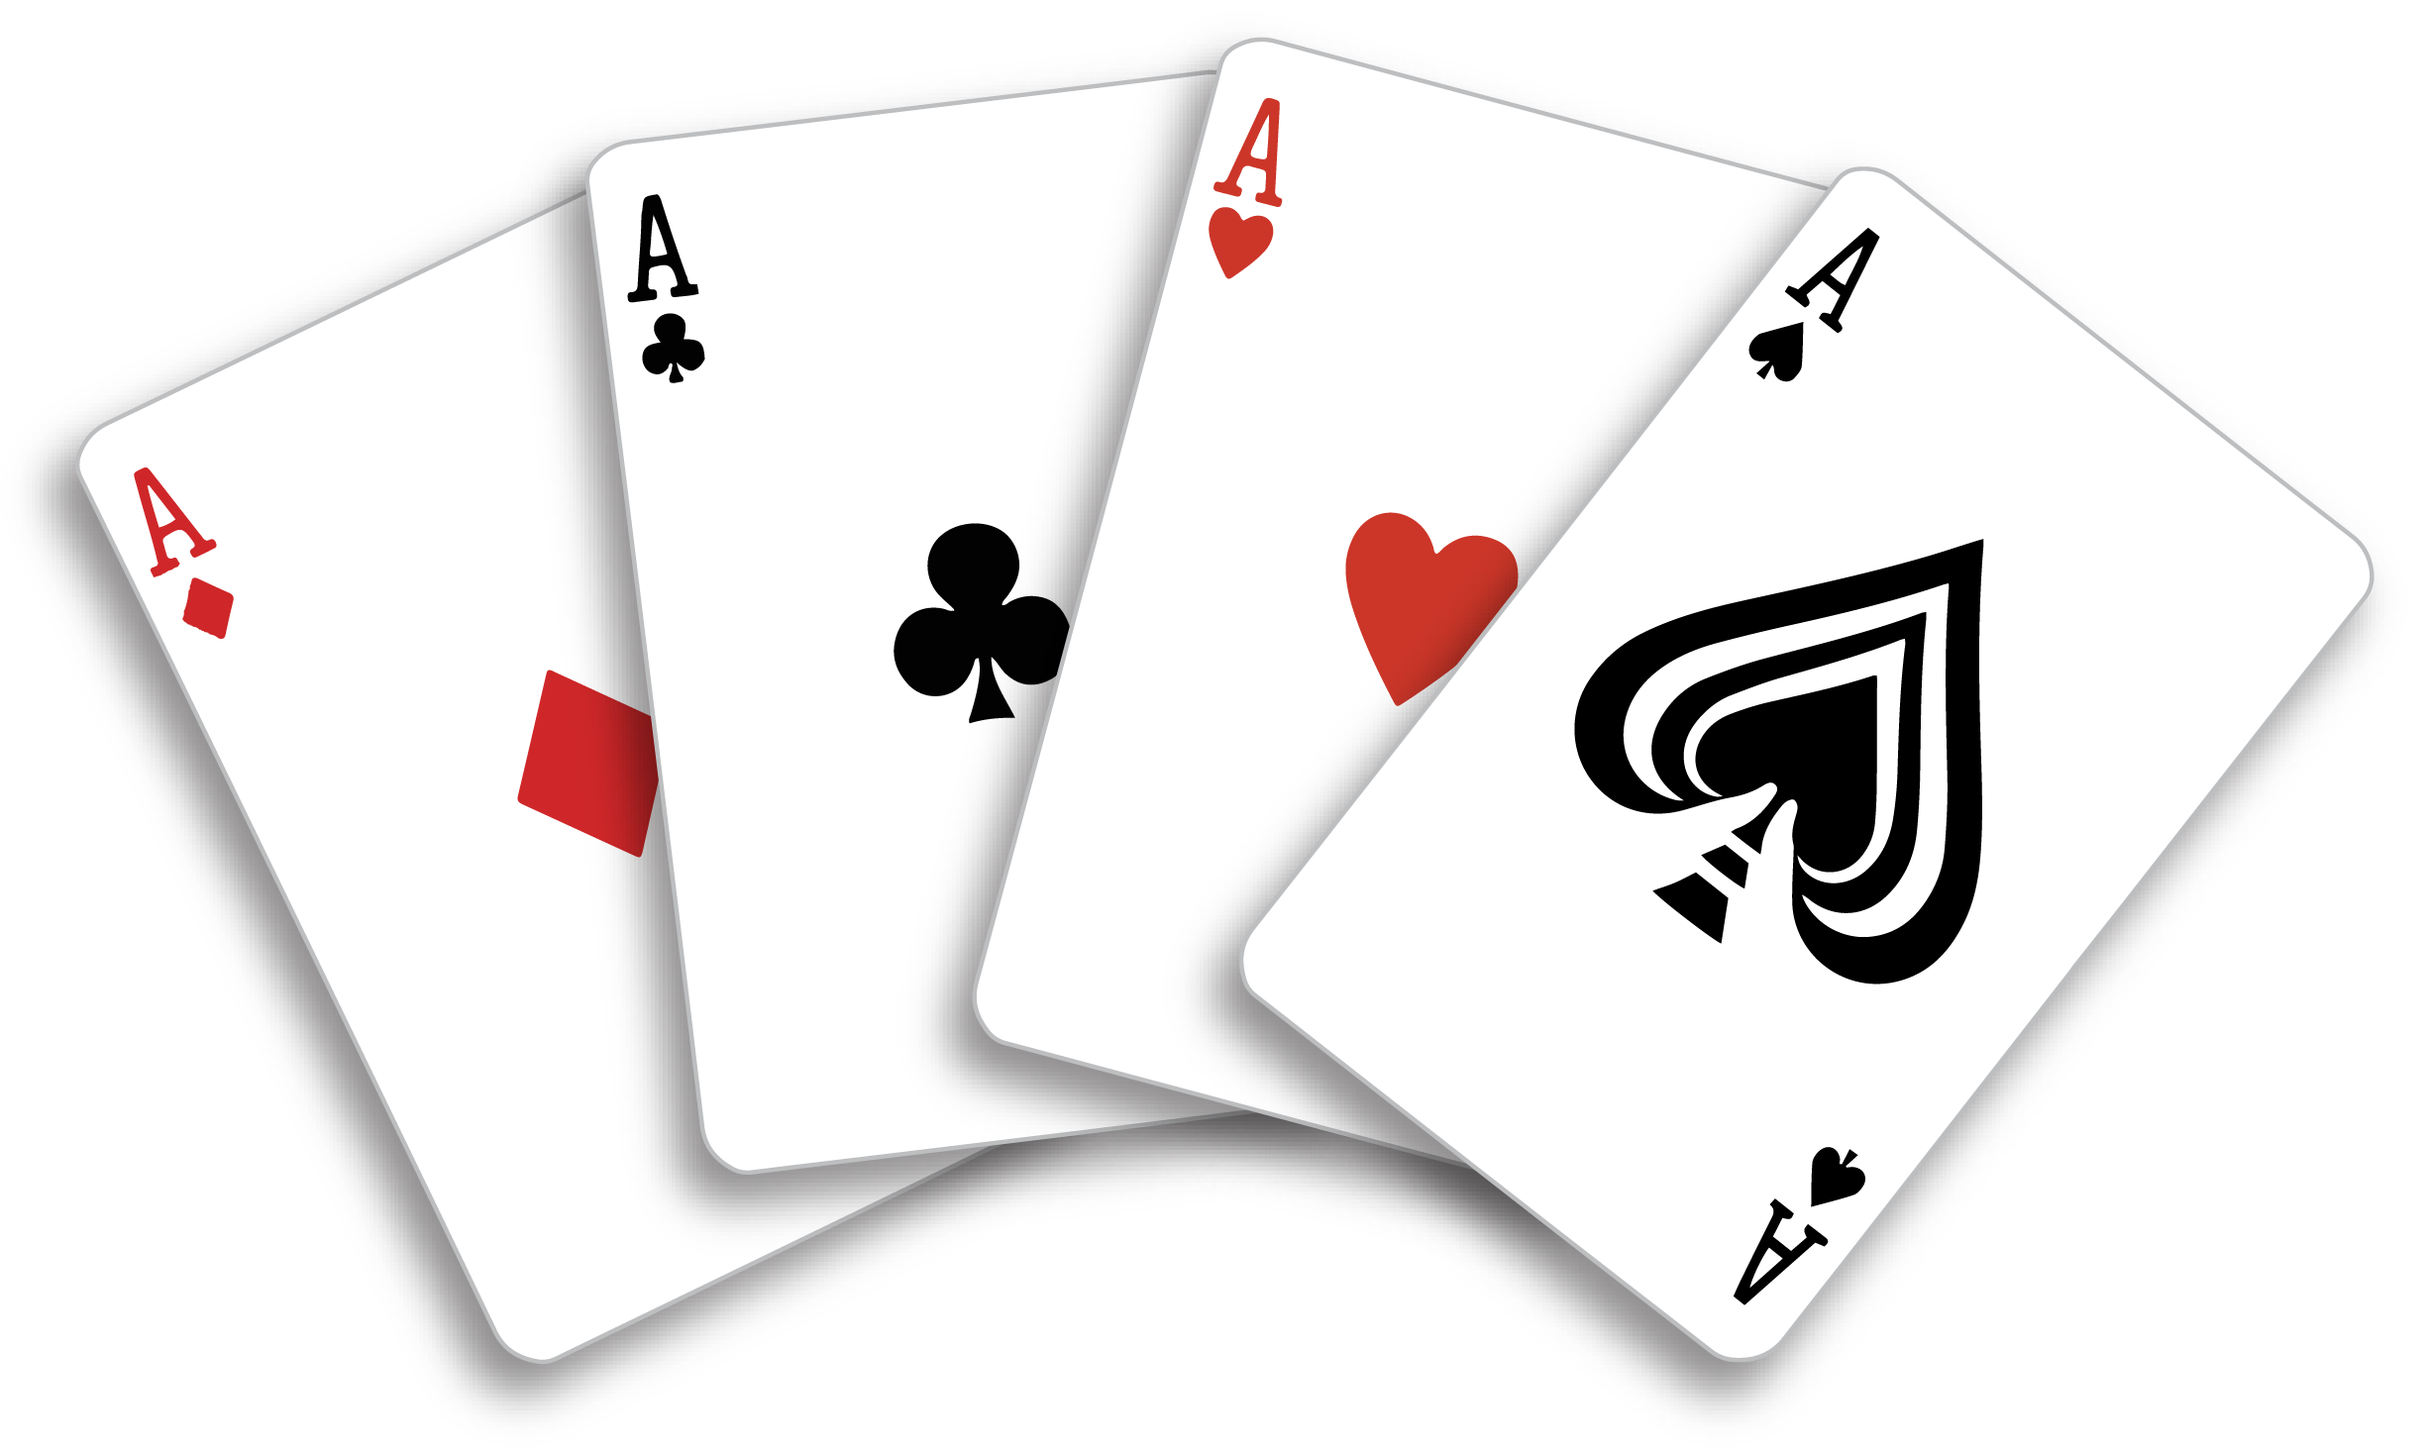
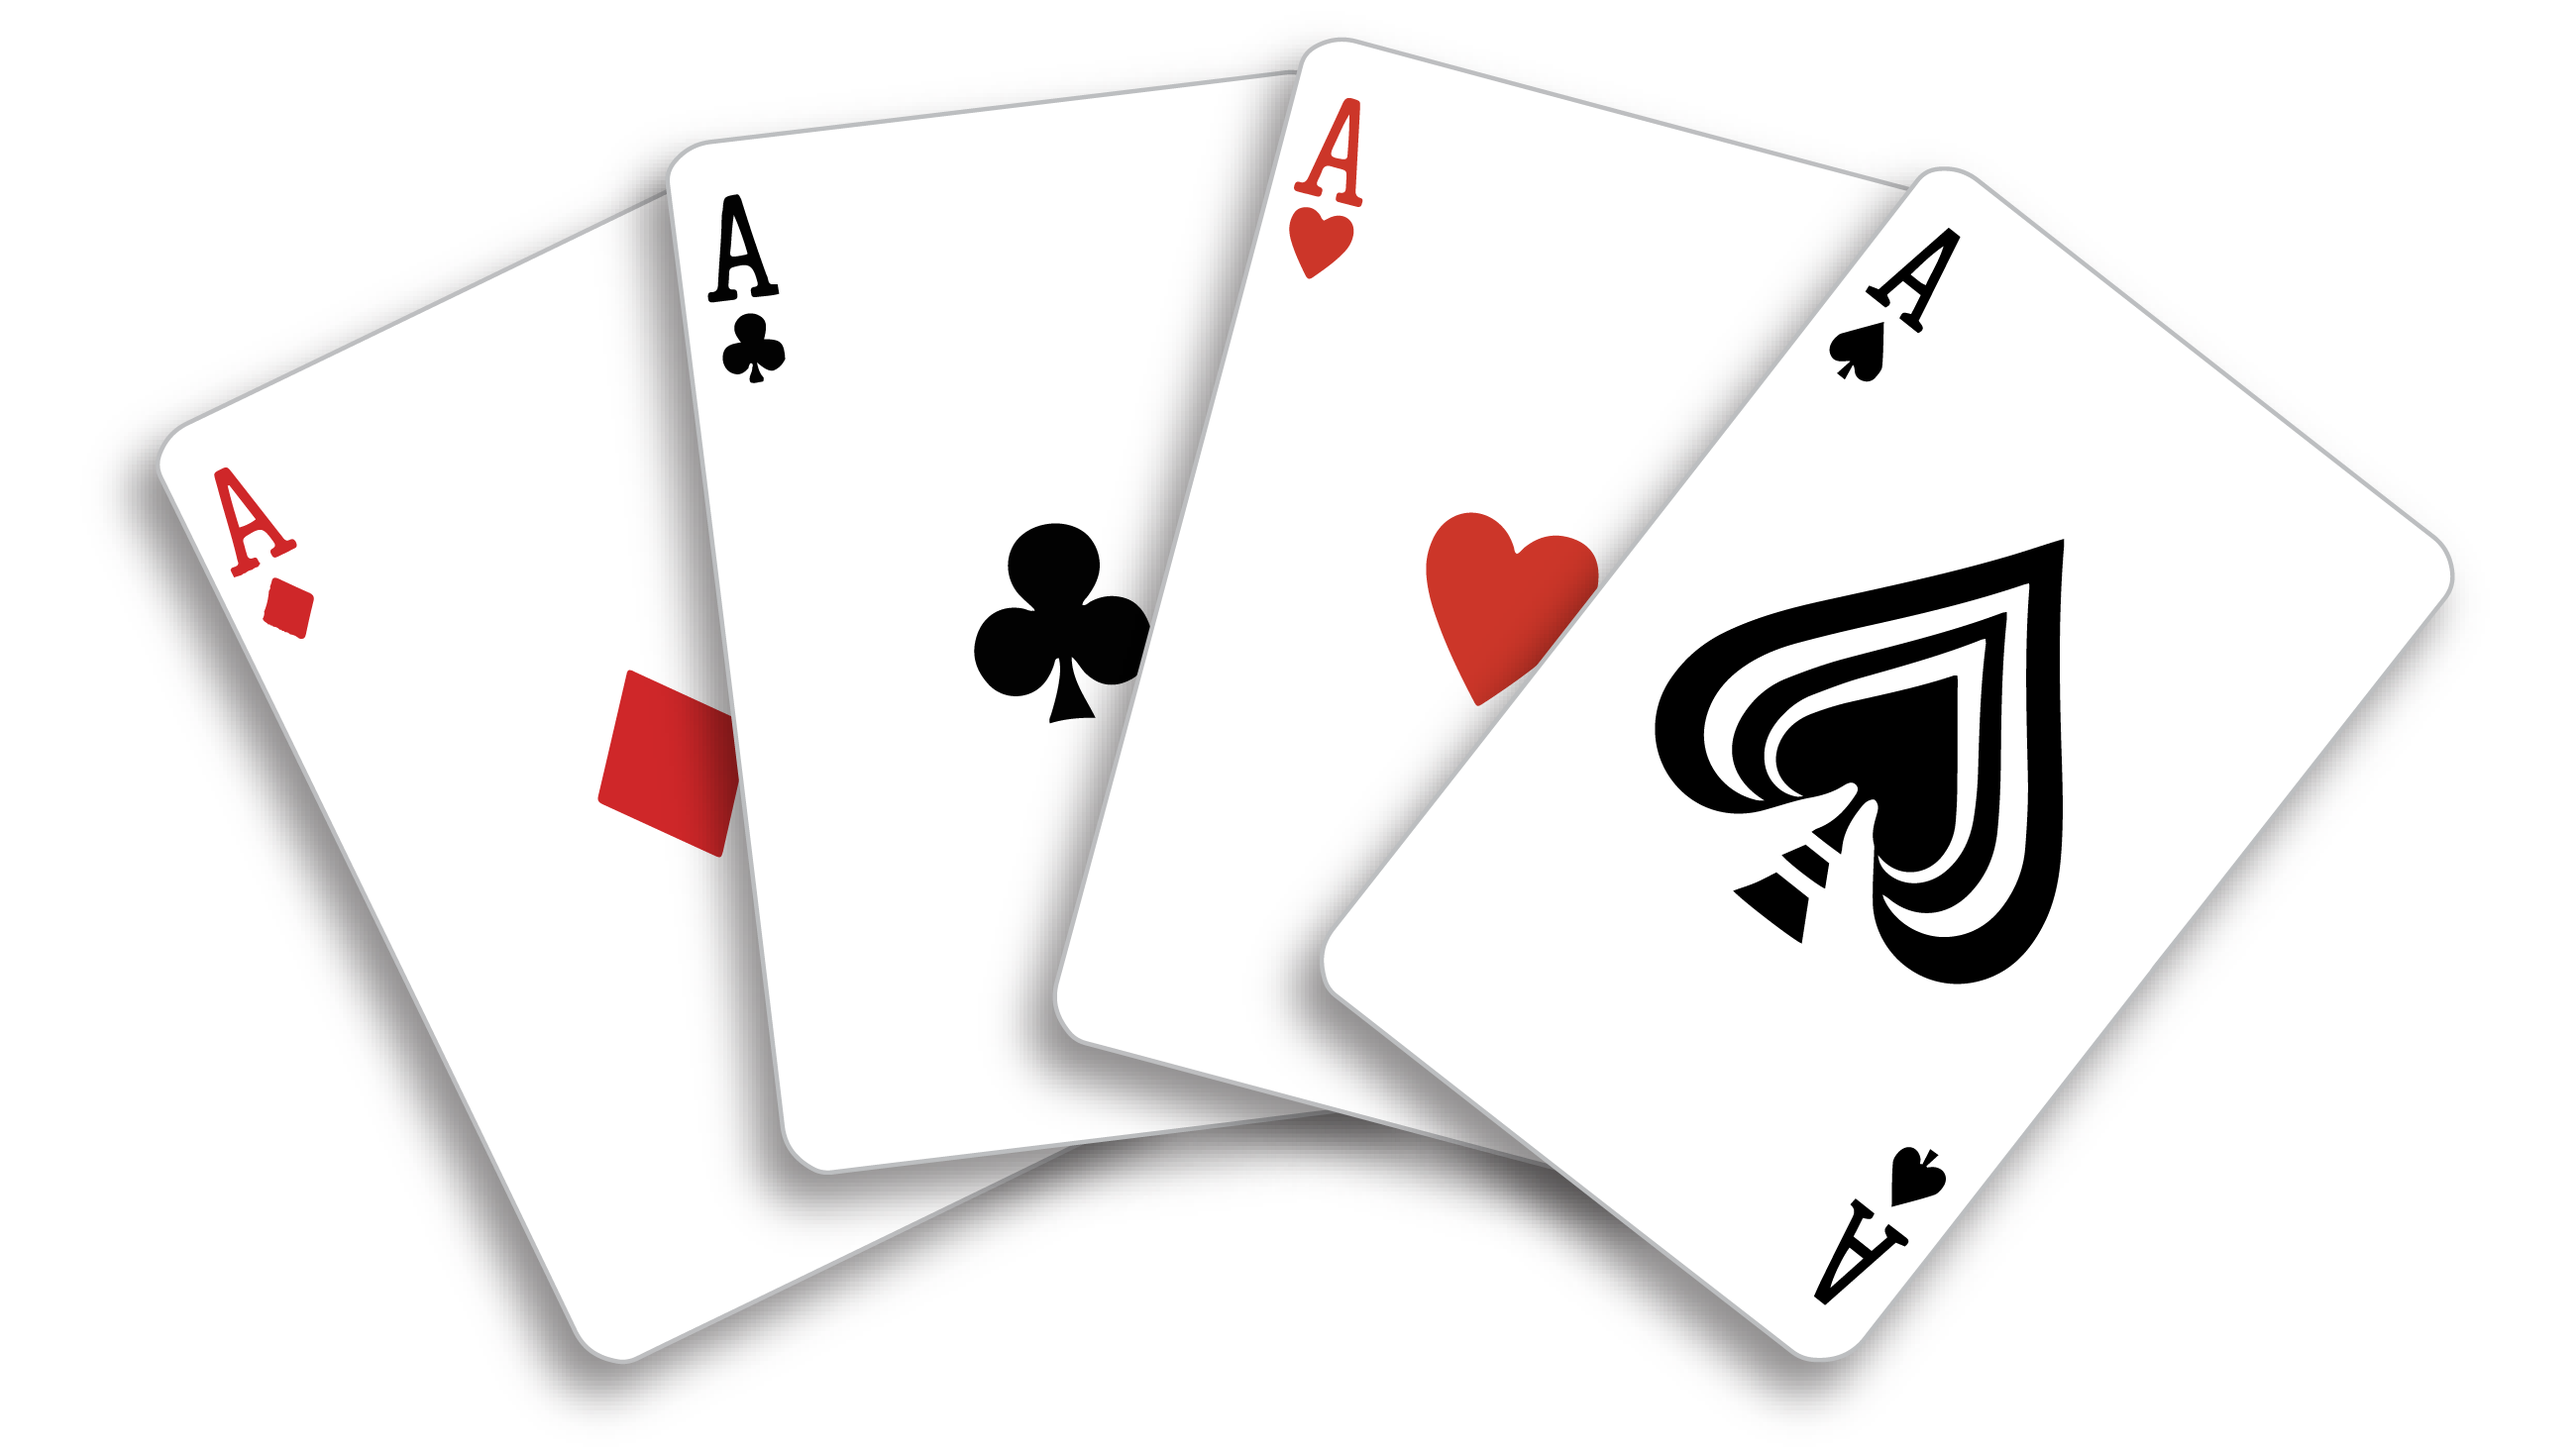
Add image with aces

diff --git a/index.html b/index.html
@@ -15,12 +15,12 @@
     <title>Poker stats</title>
 </head>
 <body>
-<div class="container mt-3" id="main-form">
+<div class="container mt-3 mb-1" id="main-form">
     <form id="prob-form" action="#">
         <div class="form-row">
             <div class="col-md">
                 <div id="basic-options-toggle" class="mb-2">
-                    <a data-toggle="collapse" href="#basic-options" role="button" aria-expanded="false" aria-controls="collapsedBlock">Basic options</a>
+                    <a data-toggle="collapse" href="#basic-options" role="button" aria-expanded="false" aria-controls="basic-options">Basic options</a>
                 </div>
                 <div class="mb-2 collapse show" id="basic-options">
                     <div class="form-group">
@@ -39,9 +39,9 @@
             </div>
             <div class="col-md">
                 <div id="adv-options-toggle" class="mb-2">
-                      <a data-toggle="collapse" href="#adv-options" role="button" aria-expanded="false" aria-controls="collapsedBlock">Advanced options</a>
+                      <a data-toggle="collapse" href="#adv-options" role="button" aria-expanded="false" aria-controls="adv-options">Advanced options</a>
                 </div>
-                <div class="mb-2 collapse" id="adv-options">
+                <div class="mb-2 collapse show" id="adv-options">
                     <div class="form-group">
                         <label for="num_samples">Simulate games</label>
                         <input class="form-control" id="num-samples" type="number" name="num_samples" value="10000" required/>
@@ -50,10 +50,13 @@
                         <label for="num_workers">Number of workers</label>
                         <input class="form-control" id="num-workers" type="number" name="num_workers" value="4" required/>
                     </div>
-                </div>                
+                </div>
             </div>
-            <div class="col-md align-bottom">
+            <div class="col-md submit-button">
                 <button type="submit" class="btn btn-primary mb-3" data-toggle="modal" data-target="#prob-modal">Estimate</button>
+            </div>
+            <div class="col-md" id="logo">
+                <img class="img-fluid" src="images/aces.png"/>
             </div>
         </div>
     </form>

diff --git a/styles.css b/styles.css
@@ -21,9 +21,18 @@ body {
     box-shadow: 0px 0px 5px 0px rgba(0,0,0,0.75);
 }
 
+#logo {
+    align-self: center;
+}
+
+.submit-button {
+    max-width: 107px;
+    align-self: end;
+}
+
 .card-posess {
     position: absolute;
-    top: -3px;
+    top: -4px;
     z-index: 10;
     font-size: 0.9rem;
     width: 100%;
@@ -76,6 +85,10 @@ body {
     box-shadow: 0px 0px 5px 1px rgba(0,0,0,0.75);
 }
 
+.container {
+    max-width: 1240px;
+}
+
 @media (max-width: 1379.98px) { 
     .card-posess {
         font-size: 0.8rem;
@@ -90,14 +103,17 @@ body {
 
 @media (max-width: 1279.98px) {
     #cards-desktop {
-        margin-left: 20px;
-        margin-right: 20px;
+        margin-left: 15px;
+        margin-right: 15px;
     }
 }
 
 @media (max-width: 1059.98px) { 
     .card-posess {
         font-size: 0.6rem;
+    }
+    #logo {
+        display: none;
     }
 }
 
@@ -117,12 +133,15 @@ body {
     .card-posess {
         font-size: 0.8rem;
     }
+    #main-form {
+        max-width: 400px;
+    }
 }
 
 @media (max-width: 439.98px) {
     #cards-mobile {
-        margin-left: 20px;
-        margin-right: 20px;
+        margin-left: 15px;
+        margin-right: 15px;
     }
     .card-posess {
         font-size: 0.7rem;

diff --git a/js/funcs.js b/js/funcs.js
@@ -1,4 +1,8 @@
 $("document").ready(function() {
+    if ($(window).width() < 768) {
+        $("#adv-options").removeClass("show");
+    }
+
     $('#prob-form').submit(function(event) {
         $("#result-prob").text("...Processing...");
         event.preventDefault();
